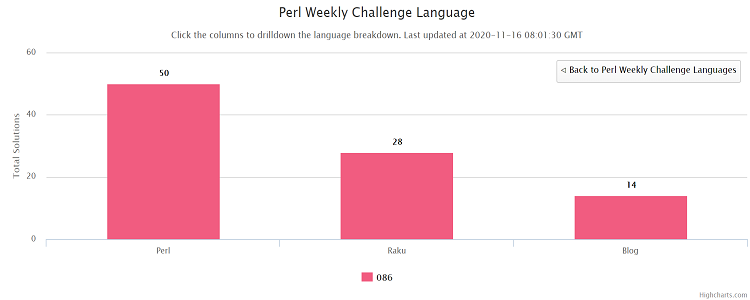
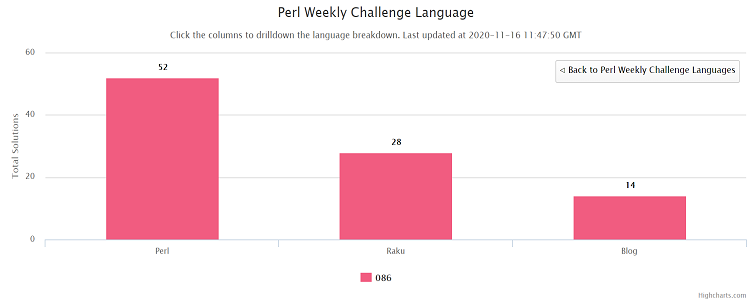
- Tidied up RECAPS 86.

diff --git a/docs/blog/recap-challenge-086/index.html b/docs/blog/recap-challenge-086/index.html
@@ -230,7 +230,7 @@
 <br>
 <h2 id="CONTRIBUTIONSTATS">CONTRIBUTION STATS</h2>
 <hr>
-<p>The total contributions in the week is <code>92</code>.Well done <strong>Team PWC</strong>. I would also like to thanks <code>Raku</code> contributors for catching up.</p>
+<p>The total contributions in the week is <code>94</code>.Well done <strong>Team PWC</strong>. I would also like to thanks <code>Raku</code> contributors for catching up.</p>
 <p><img src="/images/blog/languages-breakdown-86.png" alt="Language Breakdown"></p>
 <br>
 <h2 id="GUESTS">GUESTS</h2>
@@ -366,6 +366,11 @@
 <p><img src="/images/team/user.jpg" alt="Nuno Vieira"></p>
 <p>[<a href="https://github.com/manwar/perlweeklychallenge-club/blob/master/challenge-086/nunovieira220/perl/ch-1.pl"><strong>PERL #1</strong></a>]
 [<a href="https://github.com/manwar/perlweeklychallenge-club/blob/master/challenge-086/nunovieira220/perl/ch-2.pl"><strong>PERL #2</strong></a>]</p>
+<hr>
+<h3 id="pete-houston">Pete Houston</h3>
+<p><img src="/images/team/user.jpg" alt="Pete Houston"></p>
+<p>[<a href="https://github.com/manwar/perlweeklychallenge-club/blob/master/challenge-086/pete-houston/perl/ch-1.pl"><strong>PERL #1</strong></a>]
+[<a href="https://github.com/manwar/perlweeklychallenge-club/blob/master/challenge-086/pete-houston/perl/ch-2.pl"><strong>PERL #2</strong></a>]</p>
 <hr>
 <h3 id="shawn-wagner">Shawn Wagner</h3>
 <p><img src="/images/team/user.jpg" alt="Shawn Wagner"></p>

diff --git a/content/blog/recap-challenge-086.md b/content/blog/recap-challenge-086.md
@@ -52,7 +52,7 @@ Following members shared solutions to both tasks in `Perl` and `Raku` as well as
 ## CONTRIBUTION STATS {#CONTRIBUTIONSTATS}
 ***
 
-The total contributions in the week is `92`.Well done **Team PWC**. I would also like to thanks `Raku` contributors for catching up.
+The total contributions in the week is `94`.Well done **Team PWC**. I would also like to thanks `Raku` contributors for catching up.
 
 ![Language Breakdown](/images/blog/languages-breakdown-86.png)
 
@@ -250,6 +250,14 @@ Please checkout the technical class of **Andrew**'s **Raku** Knowledge. You can 
 
 [[**PERL #1**](https://github.com/manwar/perlweeklychallenge-club/blob/master/challenge-086/nunovieira220/perl/ch-1.pl)]
 [[**PERL #2**](https://github.com/manwar/perlweeklychallenge-club/blob/master/challenge-086/nunovieira220/perl/ch-2.pl)]
+
+***
+
+### Pete Houston
+![Pete Houston](/images/team/user.jpg)
+
+[[**PERL #1**](https://github.com/manwar/perlweeklychallenge-club/blob/master/challenge-086/pete-houston/perl/ch-1.pl)]
+[[**PERL #2**](https://github.com/manwar/perlweeklychallenge-club/blob/master/challenge-086/pete-houston/perl/ch-2.pl)]
 
 ***
 
